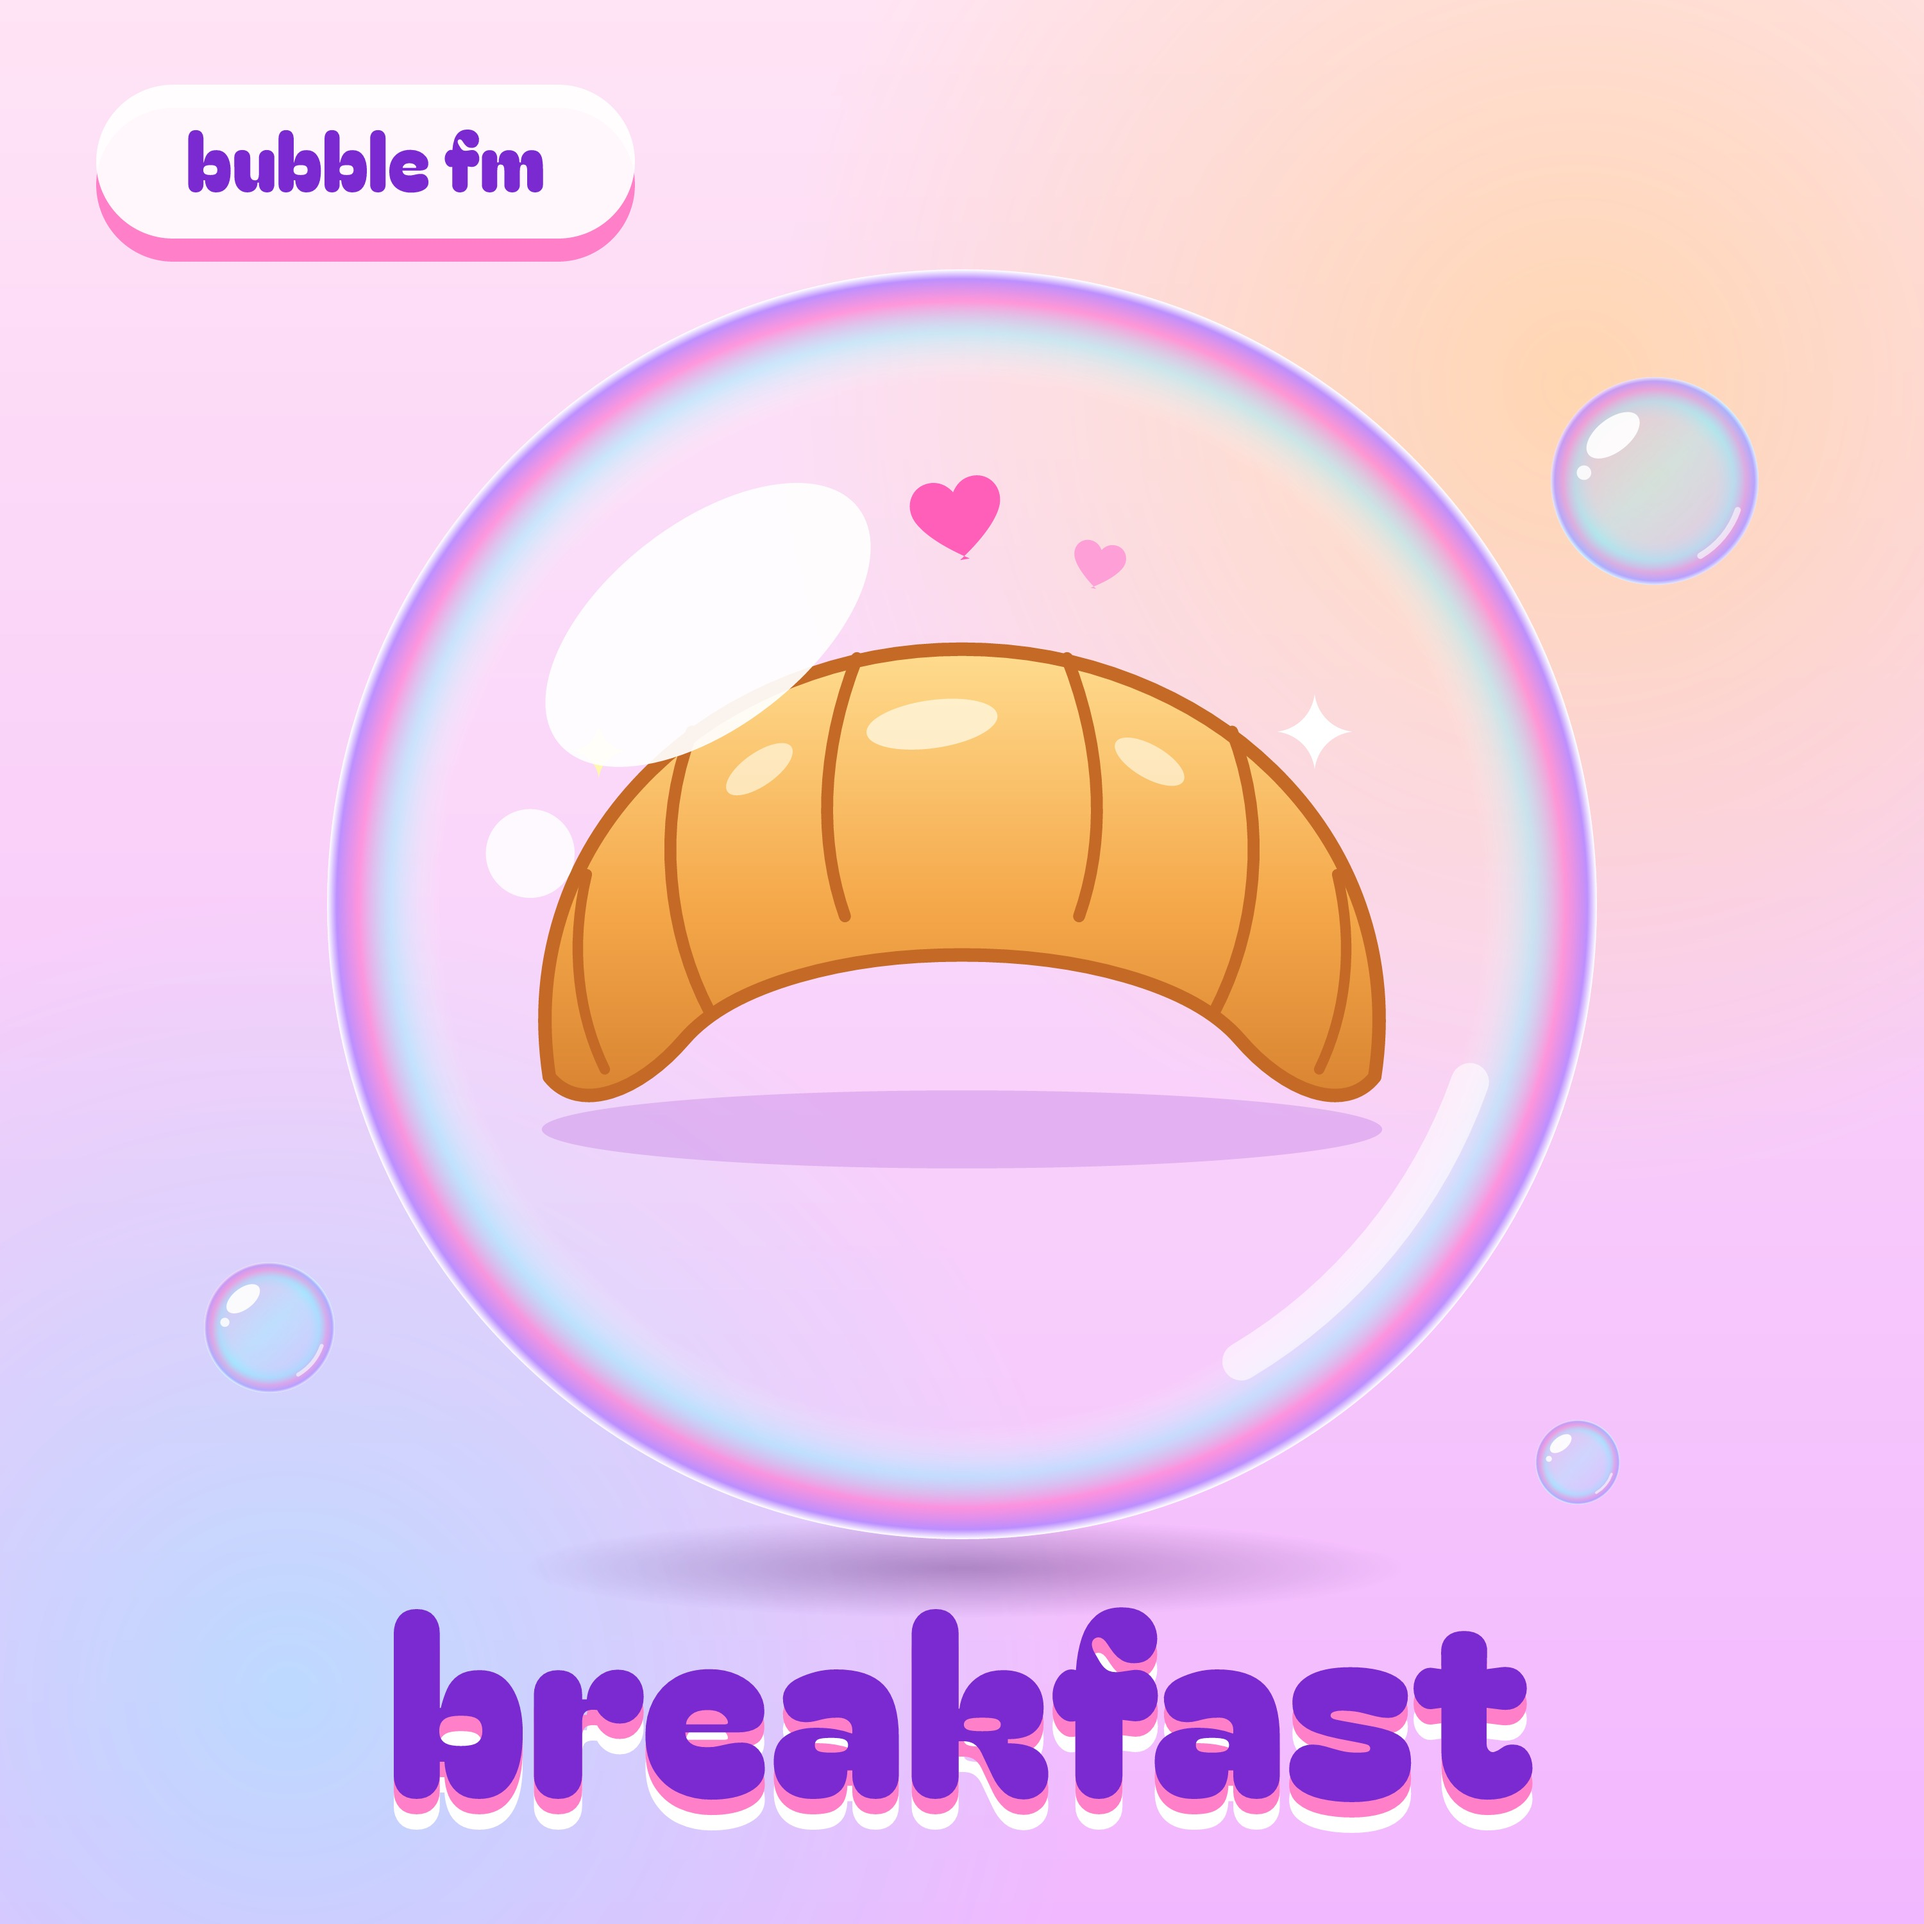
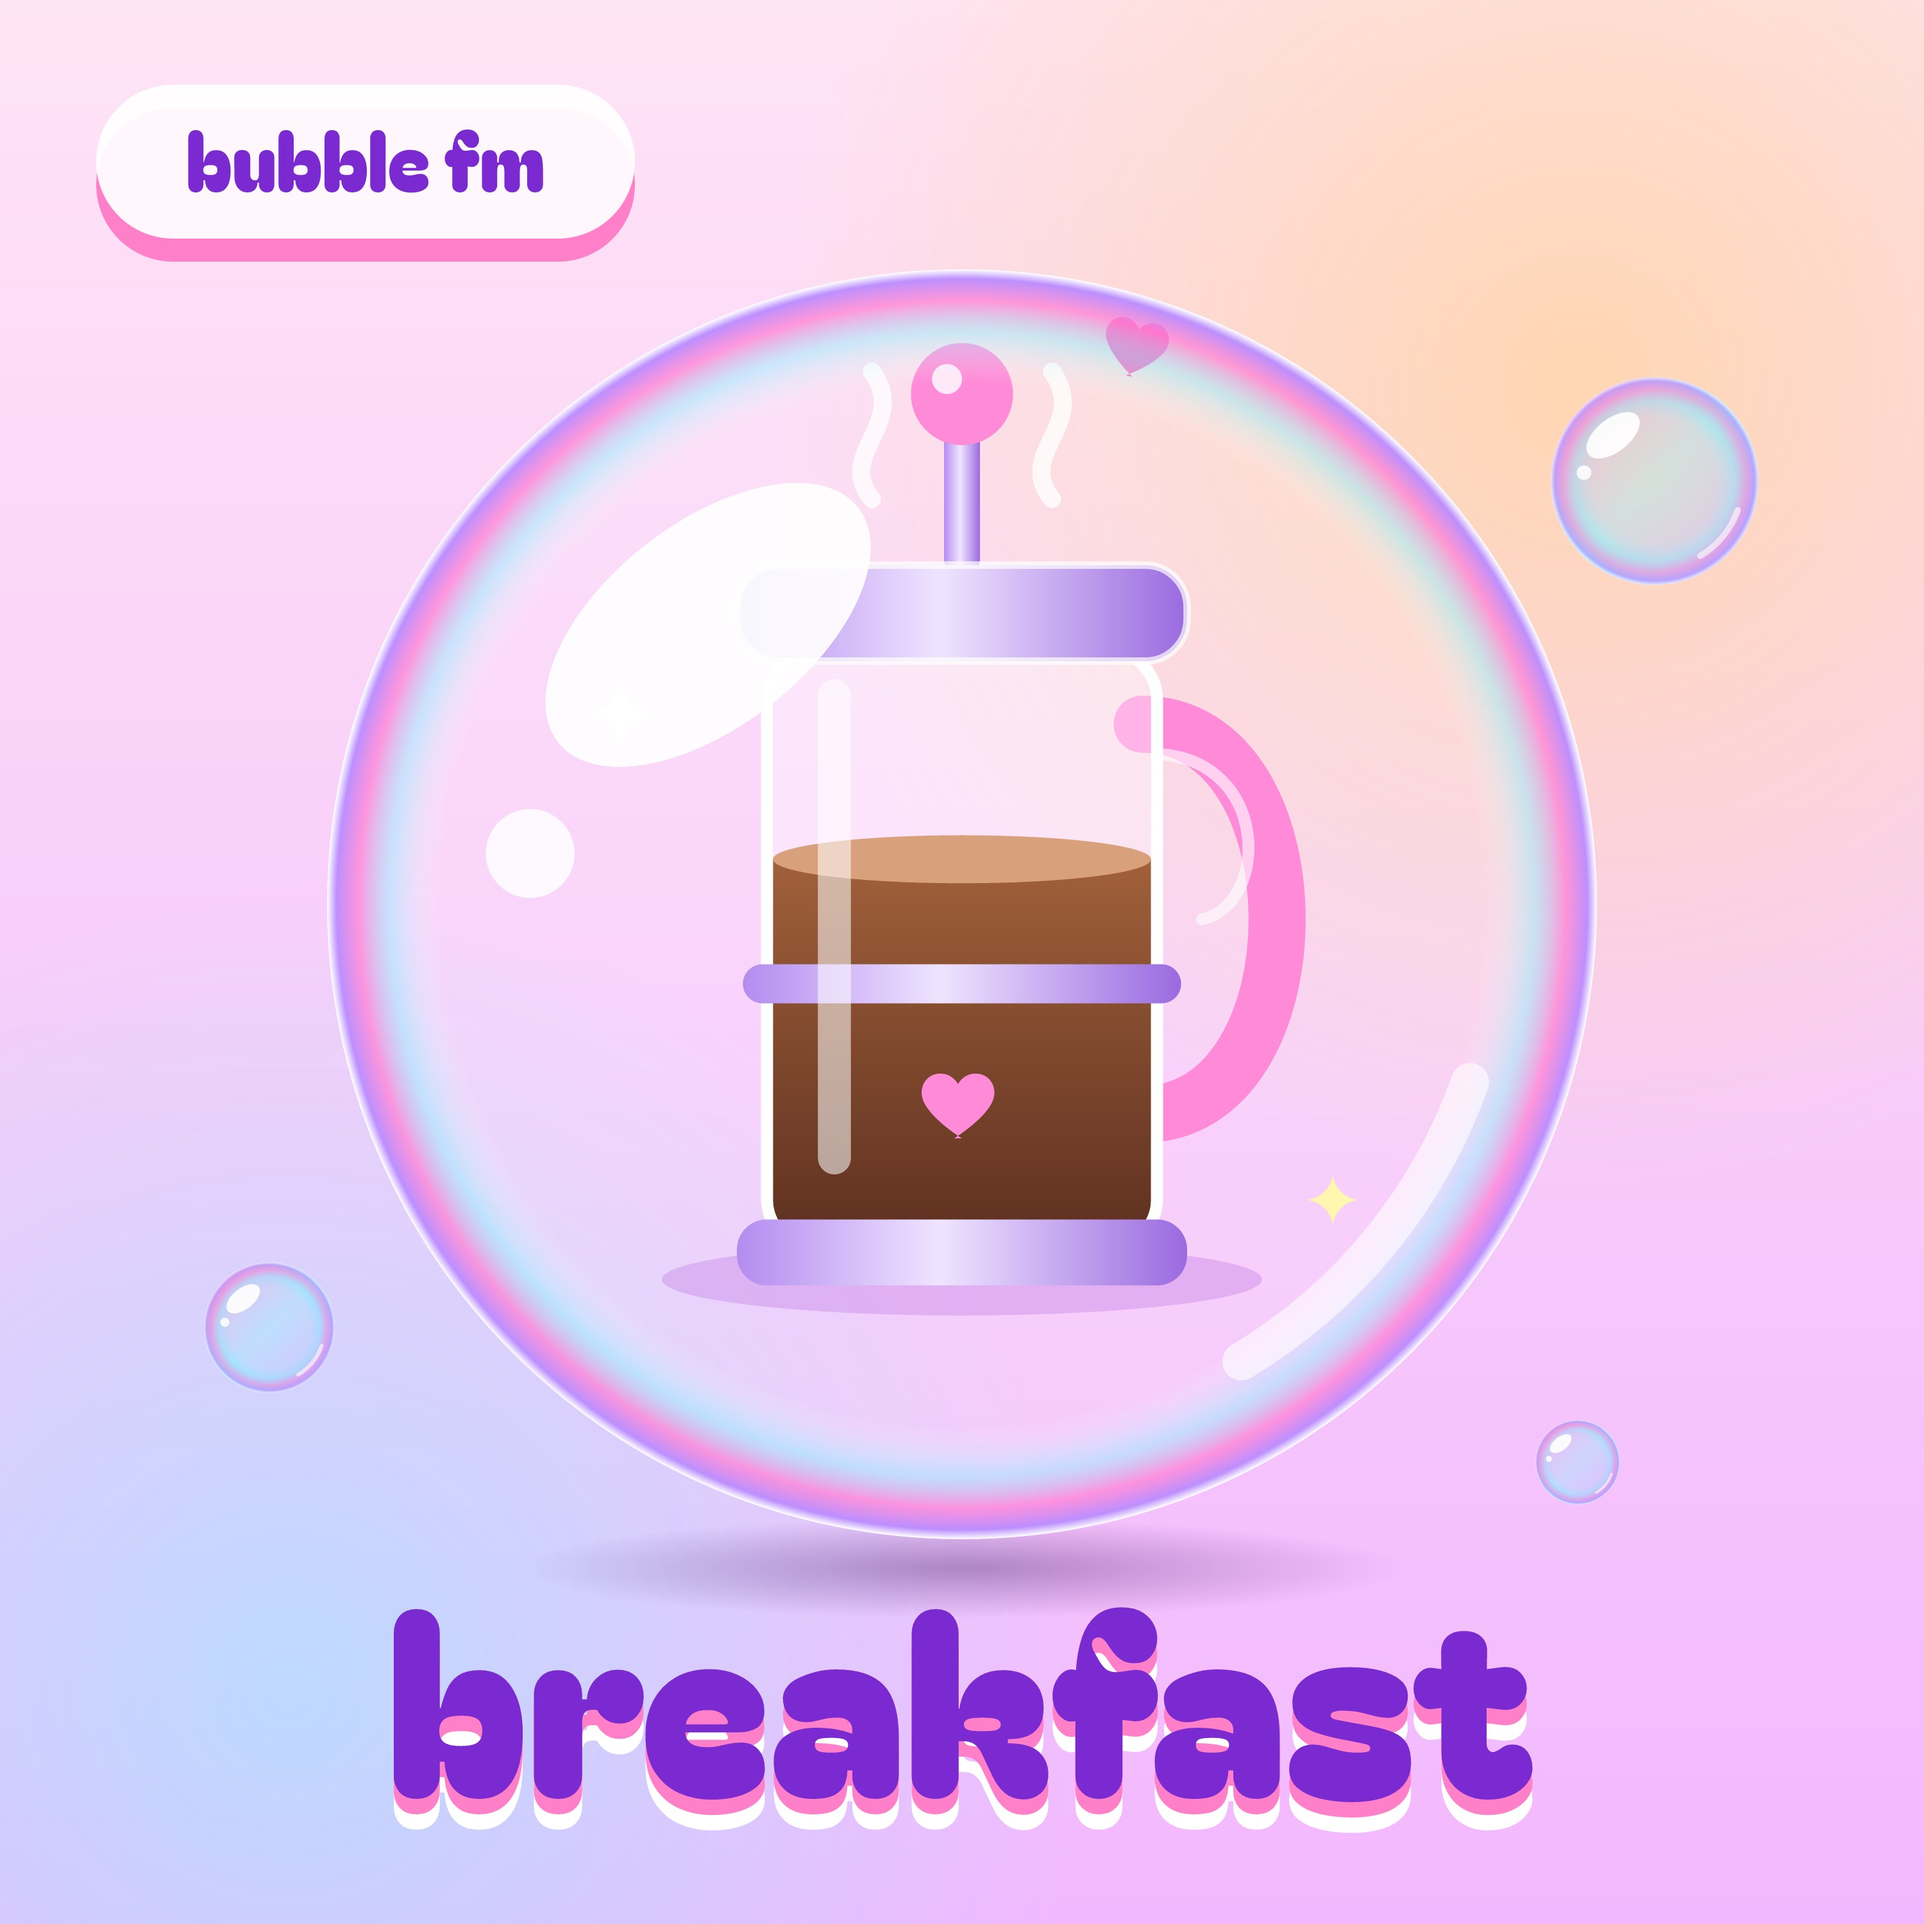
Breakfast cover: French press instead of croissant
Claude-Session: https://claude.ai/code/session_01PQFTmN8M4Paa6RJpFM6amd

Changed region(s): [[0.279, 0.155, 0.744, 0.682], [0.558, 0.155, 0.62, 0.186]]

diff --git a/src/covers.js b/src/covers.js
@@ -8,30 +8,38 @@ const { DEFS, HEART, SPARK, bubble, stickerText, icon, glow, FONTS } = require('
 
 const S = 1000;
 
-// A croissant: one fat crescent with curved layer lines and glossy highlights.
-const croissant = `
+// A French press: glass jug with coffee, lilac frame, plunger and a pink handle.
+const frenchPress = `
   <defs>
-    <linearGradient id="crust" x1="0" y1="0" x2="0" y2="1">
-      <stop offset="0" stop-color="#ffdc8f"/><stop offset="0.55" stop-color="#f5a84a"/><stop offset="1" stop-color="#d6802f"/>
+    <linearGradient id="coffee" x1="0" y1="0" x2="0" y2="1">
+      <stop offset="0" stop-color="#a0603a"/><stop offset="1" stop-color="#5e3020"/>
+    </linearGradient>
+    <linearGradient id="metal" x1="0" y1="0" x2="1" y2="0">
+      <stop offset="0" stop-color="#b48cf0"/><stop offset="0.45" stop-color="#efe4ff"/><stop offset="1" stop-color="#9a6ae0"/>
     </linearGradient>
   </defs>
-  <g transform="translate(500 520)">
-    <ellipse cx="0" cy="130" rx="280" ry="26" fill="#c98ae8" opacity="0.45"/>
-    <path d="M -275 95 C -300 -70 -160 -190 0 -190 C 160 -190 300 -70 275 95 C 255 120 215 105 185 70 C 120 -5 -120 -5 -185 70 C -215 105 -255 120 -275 95 Z"
-      fill="url(#crust)" stroke="#c46a26" stroke-width="9" stroke-linejoin="round"/>
-    <path d="M -70 -184 C -95 -120 -95 -60 -78 -12" stroke="#c46a26" stroke-width="8" fill="none" stroke-linecap="round"/>
-    <path d="M 70 -184 C 95 -120 95 -60 78 -12" stroke="#c46a26" stroke-width="8" fill="none" stroke-linecap="round"/>
-    <path d="M -180 -135 C -205 -70 -195 0 -168 52" stroke="#c46a26" stroke-width="8" fill="none" stroke-linecap="round"/>
-    <path d="M 180 -135 C 205 -70 195 0 168 52" stroke="#c46a26" stroke-width="8" fill="none" stroke-linecap="round"/>
-    <path d="M -250 -40 C -262 10 -255 55 -238 90" stroke="#c46a26" stroke-width="7" fill="none" stroke-linecap="round"/>
-    <path d="M 250 -40 C 262 10 255 55 238 90" stroke="#c46a26" stroke-width="7" fill="none" stroke-linecap="round"/>
-    <ellipse cx="-20" cy="-140" rx="44" ry="16" fill="#fff6dd" opacity="0.8" transform="rotate(-8 -20 -140)"/>
-    <ellipse cx="-135" cy="-110" rx="26" ry="11" fill="#fff6dd" opacity="0.7" transform="rotate(-35 -135 -110)"/>
-    <ellipse cx="125" cy="-115" rx="26" ry="11" fill="#fff6dd" opacity="0.7" transform="rotate(30 125 -115)"/>
-    ${icon(HEART, -40, -320, 80, '#ff5fb8', -10)}
-    ${icon(HEART, 70, -270, 46, '#ff9fd8', 12)}
-    ${icon(SPARK, 210, -160, 50, '#ffffff')}
-    ${icon(SPARK, -260, -140, 36, '#fff6b0')}
+  <g transform="translate(500 500)">
+    <ellipse cx="0" cy="250" rx="200" ry="24" fill="#c98ae8" opacity="0.45"/>
+    <rect x="-12" y="-330" width="24" height="110" rx="10" fill="url(#metal)"/>
+    <circle cx="0" cy="-340" r="34" fill="#ff8ad8"/>
+    <circle cx="-10" cy="-350" r="10" fill="#ffffff" opacity="0.8"/>
+    <path d="M 120 -120 C 240 -120 240 140 120 140" stroke="#ff8ad8" stroke-width="38" fill="none" stroke-linecap="round"/>
+    <path d="M 132 -100 C 205 -95 205 0 160 10" stroke="#ffffff" stroke-width="8" fill="none" stroke-linecap="round" opacity="0.6"/>
+    <rect x="-130" y="-170" width="260" height="400" rx="34" fill="#ffffff" opacity="0.35"/>
+    <path d="M -126 -30 L 126 -30 L 126 196 Q 126 226 96 226 L -96 226 Q -126 226 -126 196 Z" fill="url(#coffee)"/>
+    <ellipse cx="0" cy="-30" rx="126" ry="16" fill="#d9a07c"/>
+    <rect x="-130" y="-170" width="260" height="400" rx="34" fill="none" stroke="#ffffff" stroke-width="8"/>
+    <rect x="-150" y="-226" width="300" height="64" rx="28" fill="url(#metal)"/>
+    <rect x="-150" y="-226" width="300" height="64" rx="28" fill="none" stroke="#ffffff" stroke-width="5" opacity="0.7"/>
+    <rect x="-146" y="40" width="292" height="26" rx="13" fill="url(#metal)"/>
+    <rect x="-150" y="210" width="300" height="44" rx="20" fill="url(#metal)"/>
+    <rect x="-96" y="-150" width="22" height="330" rx="11" fill="#ffffff" opacity="0.55"/>
+    ${icon(HEART, -32, 100, 64, '#ff8ad8')}
+    <path d="M -60 -270 C -85 -300 -35 -320 -60 -355" stroke="#ffffff" stroke-width="12" fill="none" stroke-linecap="round" opacity="0.8"/>
+    <path d="M 60 -270 C 35 -300 85 -320 60 -355" stroke="#ffffff" stroke-width="12" fill="none" stroke-linecap="round" opacity="0.8"/>
+    ${icon(HEART, 90, -400, 56, '#ff5fb8', 12)}
+    ${icon(SPARK, -250, -150, 46, '#ffffff')}
+    ${icon(SPARK, 230, 180, 34, '#fff6b0')}
   </g>`;
 
 const discoBall = (() => {
@@ -82,7 +90,7 @@ const COVERS = {
   breakfast: {
     bg: ['#ffe4f5', '#f2b8ff'],
     glows: [['#ffd6aa', 820, 200, 420, 0.9], ['#8ff0ff', 150, 880, 420, 0.55]],
-    motif: croissant,
+    motif: frenchPress,
     name: 'breakfast',
     top: '#7a2ad0',
     layers: ['#ffffff', '#ff7fc8'],
